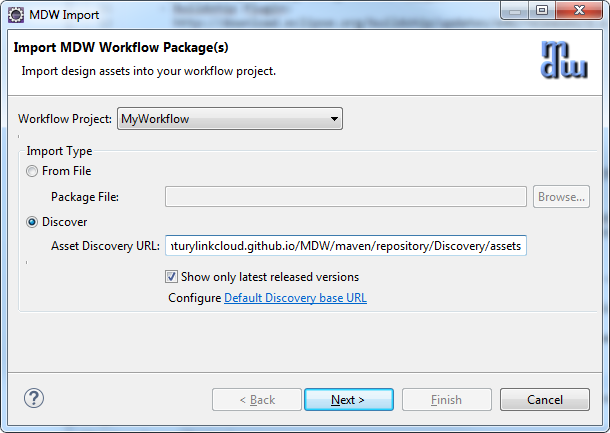
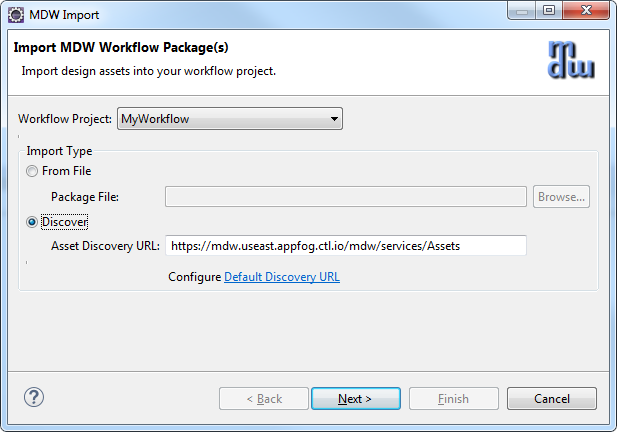
Made a change for the discovery url and replaced with correct images.

diff --git a/docs/_docs/guides/MicroservicesCookbook.md b/docs/_docs/guides/MicroservicesCookbook.md
@@ -60,28 +60,29 @@ A local project is useful if you want to debug your custom Java source code and 
 - For detailed documentation covering the designer, refer to the [MDW Designer User Guide](../../designer/user-guide/)
  
 ##### Launch the Local Project wizard:
-- Right-click inside the blank Process Explorer view and select New > Local Project.  Select the Supported Java Container you'll be deploying in, and the type of [Asset Persistence](../../help/assetPersistence.html)  you'll use.
+- Right-click inside the blank Process Explorer view and select New > Local Project.  Select the Supported Java Container you will be deploying in, and the type of [Asset Persistence](../../help/assetPersistence.html)  you will use.
 
   ![alt text](../images/workflow.png "workflow")
 - When you click Next, you'll be presented with the Tomcat for your local development.  Enter the settings for your environment.  For details about these settings, refer to the 
   server-specific cookbooks listed above under "Supported Java Containers" section.
   
   ![alt text](../images/tomcatSetting.png "tomcatSetting")
-- Click Next again and enter your database connection info.  The password for database is "mdw". 
+- Click Next again and enter your database connection info.  The password for database is `mdw`. 
 
   ![alt text](../images/dbSetting.png "dbSetting")
   
 - Click Finish to generate your local project.
 
 ### The MDW Base Package:
-- When you create design artifacts in MDW, these are organized into workflow packages, which are different from Java packages in that they can contain assets in a wide variety of formats.  Much of the MDW framework's core functionality itself is delivered this way.  The essential assets required by MDW are included in the packages "com.centurylink.mdw.base" and "com.centurylink.mdw.hub".  If you choose the built-in database asset persistence, these base packages will already exist, and you can skip down to Section 2.  Otherwise, if you're using a new database or VCS asset persistence, you'll need to import these packages locally from the MDW repository as follows.
-- Expand your newly-created workflow project in Process Explorer and you'll see that it currently contains no packages.  Right-click on the project and select Import > Package.  Choose the "Discover" option and leave the repository location as the default. `Note: The Asset Discovery URL is yet to be determined. In the meantime, take the default URL.`
+- When you create design artifacts in MDW, these are organized into workflow packages, which are different from Java packages in that they can contain assets in a wide variety of formats.  Much of the MDW framework's core functionality itself is delivered this way.  The essential assets required by MDW are included in the packages `com.centurylink.mdw.base` and `com.centurylink.mdw.hub`.  If you choose the built-in database asset persistence, these base packages will already exist, and you can skip down to Section 2.  Otherwise, if you're using a new database or VCS asset persistence, you'll need to import these packages locally from the MDW repository as follows.
+- Expand your newly-created workflow project in Process Explorer and you will see that it currently contains no packages.  Right-click on the project and select Import > Package.  Choose the `Discover` option and leave the repository location as the default. 
 
   ![alt text](../images/importBasePackages.png "importBasePackages")
 
-- After you click Next it'll take a few moments for Designer to locate the available packages.  Once these are displayed, expand the base, db and hub packages and select the same MDW version as you did when creating the project.
+- After you click Next it will take a few moments for Designer to locate the available packages.  Once these are displayed, put a check mark on base, db and hub packages.
 
   ![alt text](../images/importBasePackages2.png "importBasePackages2")
+  
 - Click Finish, and the packages will be downloaded and become visible in your Process Explorer project tree.
  
 ### Workflow Services
@@ -260,6 +261,7 @@ With MDW REST services you can automatically generate Swagger documentation just
 @Api("CenturyLink orders service")
 public class Orders extends JsonRestService {
 ```
+
 ##### Add @ApiOperation Annotations to Your Methods:
 - The ApiOperation annotation documents the specifics of a service endpoint operation, including any input or output model types.  The ApiImplicitParams annotation is useful for indicating the body content of a POST or PUT requests.  After adding these annotations to Orders.java, the code will look something like this:   
 
@@ -297,11 +299,13 @@ public class Orders extends JsonRestService {
 
 ##### Add Swagger Annotations to the Orders Class:
 - To enable consumers to easily create request content and interpret responses, you can annotate the related model objects so that they're discovered when documentation is generated.  In the Orders dynamic Java class, add the following class-level annotation:
-```swagger
-@ApiModel(value="Order", description="Centurylink Order")
+
+  ```swagger
+@ApiModel(value="Order", description="Centurylink Order")	
 public class Orders extends JsonRestService {
 // Add your logic.
 ```
+
 #### 3. View Generated REST APIs in MDWHub
 MDWHub comes with a UI for displaying your generated Swagger API documentation, along with the standard MDW REST APIs.
  
@@ -318,11 +322,12 @@ MDWHub comes with a UI for displaying your generated Swagger API documentation, 
  
 ##### Add a Sample Request and Response:
 - Sample payloads in MDW are by convention kept in an asset package under the service package whose name ends with "api.samples".  Each sample should be named to indicate its path and purpose, with an underscore separating these two parts.  Create a new MDW package named "MyServices.api.samples" and add a JSON asset named Order_Create.json with the following content:
-```jason
-// POST request to Services/MyServices/Order
-{
-"orderId":"12345678"
-}
+
+  ```jason
+ // POST request to Services/MyServices/Order
+  {
+   "orderId":"12345678"
+  }
 ```
 
 ##### View the Samples in MDWHub:
